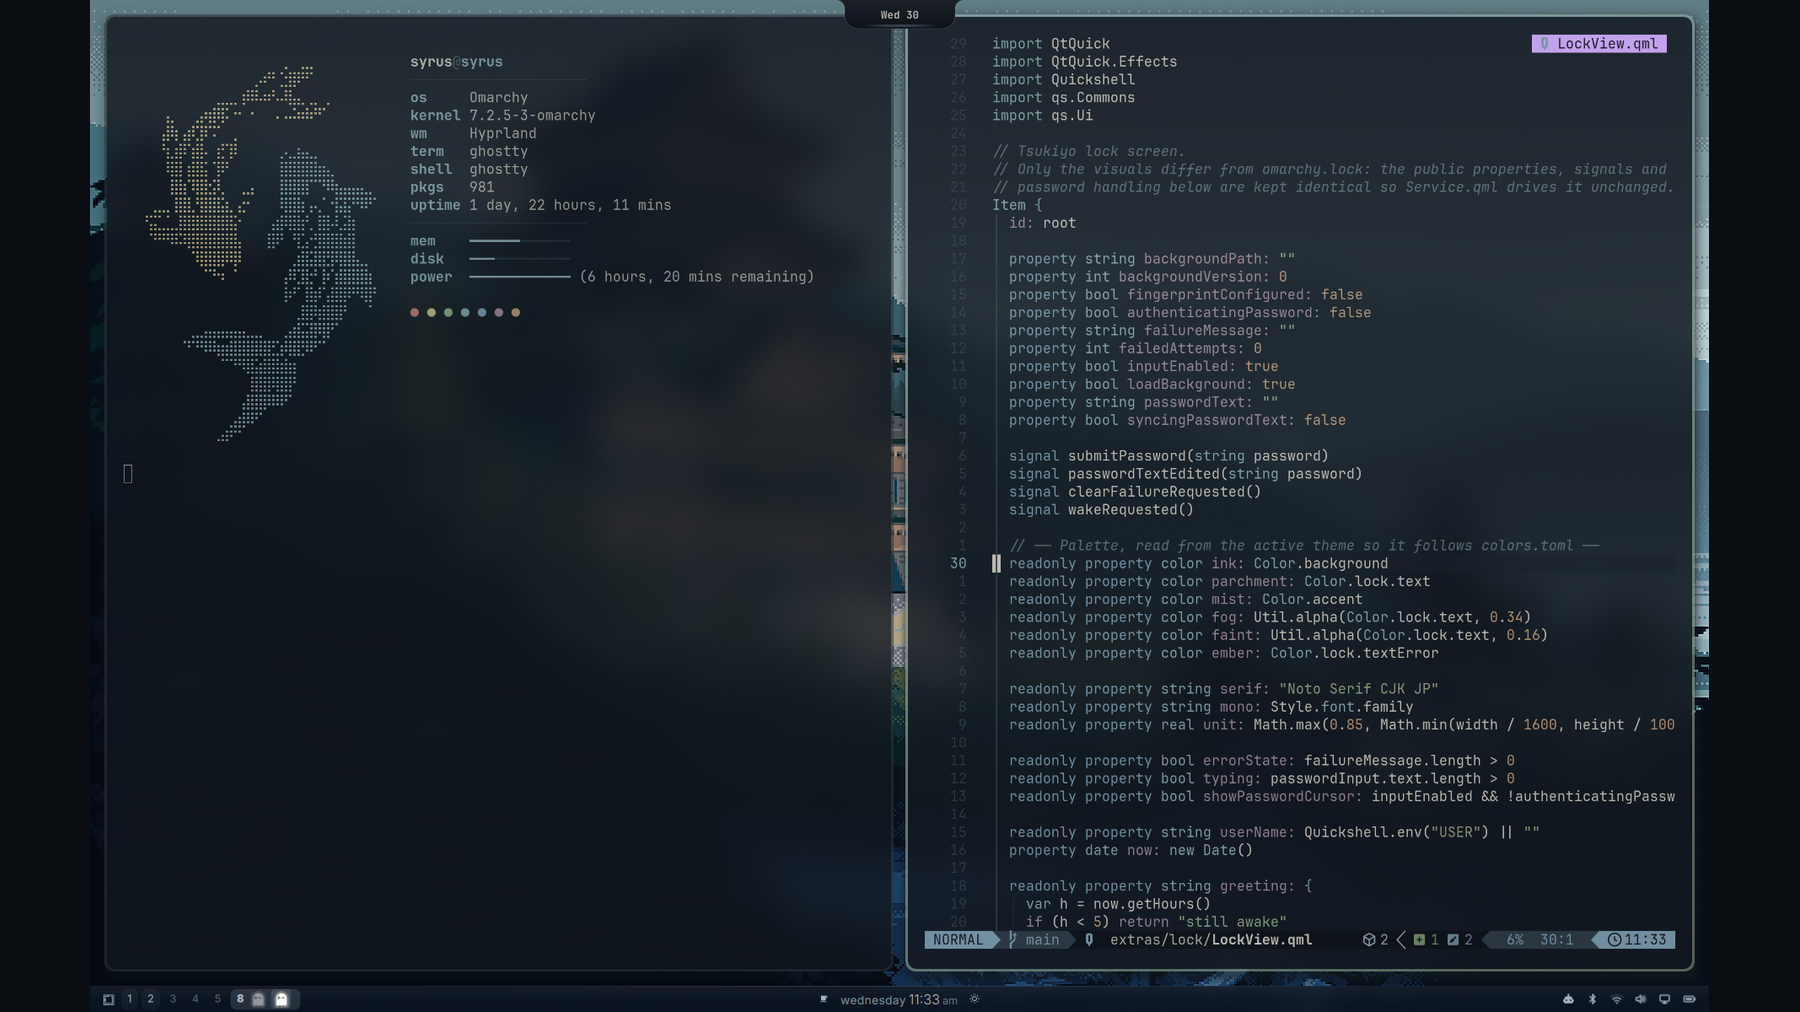
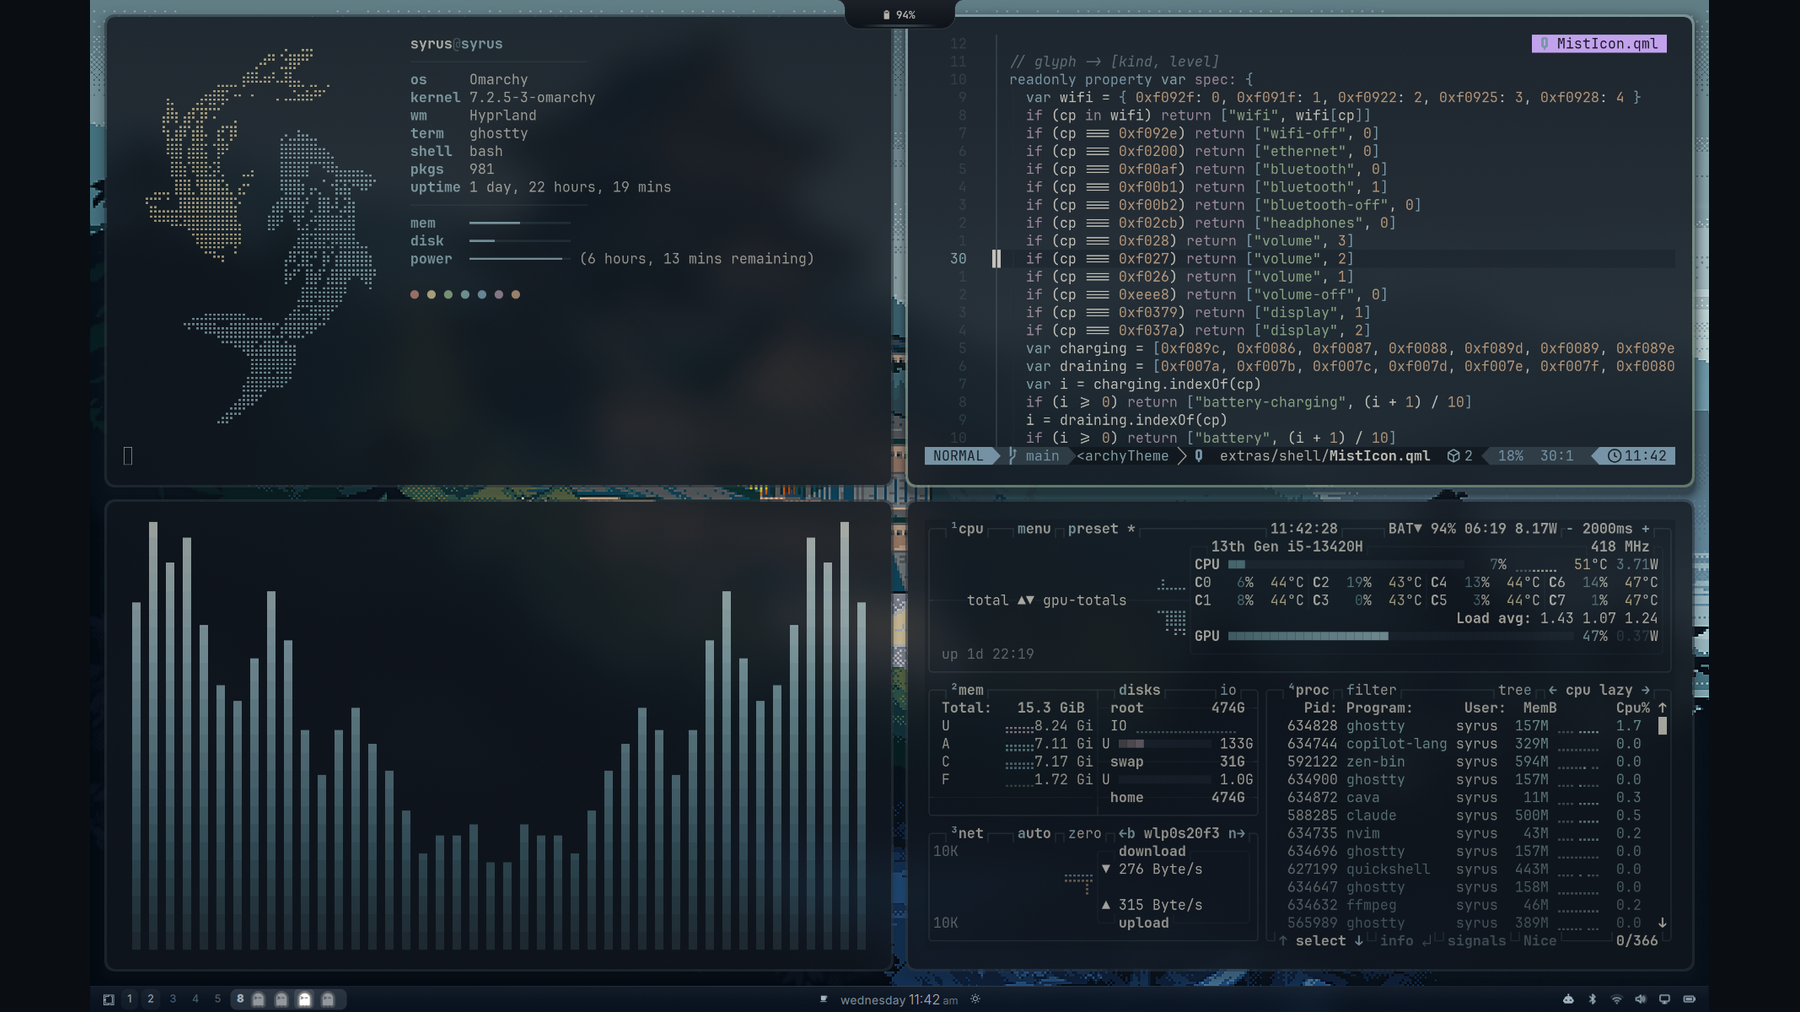
README: showcase screenshots for apps, desktop, lock and boot

diff --git a/README.md b/README.md
@@ -1,10 +1,33 @@
 # Tsukiyo 月夜 for Omarchy
 
-![Tsukiyo: the koi in fastfetch and Neovim on the castle wallpaper](preview.png)
+![Tsukiyo with fastfetch, Neovim, cava and btop](screenshots/apps.png)
 
 *Tsukiyo* means a moonlit night. A calm, dark Omarchy theme: blue-teal ink, parchment
 text, a mist-slate accent, and warm moonlight kept for the small details. Minimal, but
-crafted down to the lock screen and the bar icons.
+crafted down to the lock screen and the bar icons. Above: fastfetch with the koi, Neovim,
+cava and btop.
+
+## Screenshots
+
+### Desktop
+
+The bare desktop: the night-blue bar with its hairline icons, the Dynamic Island at the
+top, and the castle wallpaper the palette was sampled from.
+
+![Tsukiyo desktop with no apps open](screenshots/desktop.png)
+
+### Lock screen
+
+A thin serif clock over the drifting, blurred wallpaper, 月夜 between hairlines, and a
+single hairline for the password.
+
+![Tsukiyo lock screen](screenshots/lock.png)
+
+### Boot screen
+
+Two koi circling, one in moonlight and one in mist, above 月夜.
+
+![Tsukiyo boot unlock screen](preview-unlock.png)
 
 ## Install
 
@@ -47,14 +70,12 @@ It never installs packages and never changes your cursor or icon theme.
 
 ## Boot screen
 
-Tsukiyo ships an `unlock.png` for the disk-unlock screen: two koi circling, one in moonlight
-and one in mist, above 月夜 between hairlines. The same koi greet you in fastfetch.
+Tsukiyo ships an `unlock.png` for the disk-unlock screen (shown above under Screenshots).
+To use it:
 
 ```bash
 omarchy plymouth set by theme tsukiyo
 ```
-
-![Tsukiyo unlock screen](preview-unlock.png)
 
 ## Palette
 
